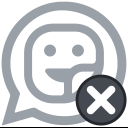
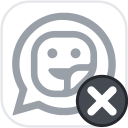
fix: bootstrap open WhatsApp tabs after installation

diff --git a/src/service-worker.js b/src/service-worker.js
@@ -4,6 +4,13 @@
   const ENABLED_KEY = "enabled";
   const CONTROL_EVENT = "wa-sticker-plugin:control:v1";
   const WHATSAPP_ORIGIN = "https://web.whatsapp.com";
+  const WHATSAPP_MATCH = `${WHATSAPP_ORIGIN}/*`;
+  const MAIN_WORLD_FILES = Object.freeze([
+    "src/drop-policy.js",
+    "src/main-world-bridge.js",
+  ]);
+  const ISOLATED_WORLD_FILES = Object.freeze(["src/content-script.js"]);
+  const OVERLAY_FILES = Object.freeze(["src/overlay.css"]);
   const ACTIVE_ICONS = Object.freeze({
     16: chrome.runtime.getURL("icons/active-16.png"),
     32: chrome.runtime.getURL("icons/active-32.png"),
@@ -45,6 +52,43 @@
     }
   }
 
+  async function bootstrapInstalledTab(tab) {
+    if (!isWhatsAppTab(tab) || tab.discarded === true) {
+      return;
+    }
+
+    const target = { tabId: tab.id, frameIds: [0] };
+    try {
+      await chrome.scripting.insertCSS({
+        target,
+        files: OVERLAY_FILES,
+      });
+      await chrome.scripting.executeScript({
+        target,
+        world: "MAIN",
+        files: MAIN_WORLD_FILES,
+      });
+      await chrome.scripting.executeScript({
+        target,
+        world: "ISOLATED",
+        files: ISOLATED_WORLD_FILES,
+      });
+    } catch {
+      // Navigation can replace the document mid-install. Static scripts own the next page load.
+    }
+  }
+
+  async function bootstrapOpenWhatsAppTabs() {
+    let tabs;
+    try {
+      tabs = await chrome.tabs.query({ url: WHATSAPP_MATCH });
+    } catch {
+      return;
+    }
+
+    await Promise.all(tabs.map((tab) => bootstrapInstalledTab(tab)));
+  }
+
   async function synchronizeClickedTab(tab, enabled) {
     if (!isWhatsAppTab(tab)) {
       return;
@@ -64,17 +108,20 @@
         args: [CONTROL_EVENT, enabled],
       });
     } catch {
-      // Storage remains authoritative. A newly installed extension still needs one page reload.
+      // Storage remains authoritative. Static scripts synchronize the next matching page load.
     }
   }
 
-  chrome.runtime.onInstalled.addListener(() => {
+  chrome.runtime.onInstalled.addListener((details) => {
     void (async () => {
       const settings = await chrome.storage.local.get(ENABLED_KEY);
       if (typeof settings[ENABLED_KEY] !== "boolean") {
         await chrome.storage.local.set({ [ENABLED_KEY]: true });
       }
       await synchronizeAction();
+      if (details?.reason === "install") {
+        await bootstrapOpenWhatsAppTabs();
+      }
     })();
   });
 

diff --git a/src/main-world-bridge.js b/src/main-world-bridge.js
@@ -493,6 +493,10 @@
     dragListenersAttached = shouldAttach;
   }
 
+  function requestCurrentControlState() {
+    root.dispatchEvent(new CustomEvent(CONTROL_QUERY_EVENT));
+  }
+
   root.addEventListener(CONTROL_EVENT, (event) => {
     const enabled = event.detail?.enabled === true;
     if (extensionEnabled !== enabled) {
@@ -508,8 +512,14 @@
 
   root.addEventListener("pagehide", () => {
     clearTimeout(leaveTimer);
+    if (extensionEnabled) {
+      controlRevision += 1;
+    }
+    extensionEnabled = false;
+    pendingConversationNavigation = null;
     setDragListenersAttached(false);
     emitStatus("idle");
   });
-  root.dispatchEvent(new CustomEvent(CONTROL_QUERY_EVENT));
+  root.addEventListener("pageshow", requestCurrentControlState);
+  requestCurrentControlState();
 })(globalThis);

diff --git a/STORE_LISTING.md b/STORE_LISTING.md
@@ -1,6 +1,6 @@
 # Chrome Web Store Publication Guide
 
-Use this document to publish version 0.2.4 manually. Upload only the exact ZIP produced by `npm run release:chrome`. Do not upload `dist/`, the repository, a source ZIP from GitHub, or the `.sha256` file.
+Use this document to update the published item to version 0.2.7 manually. Upload only the exact ZIP produced by `npm run release:chrome`. Do not upload `dist/`, the repository, a source ZIP from GitHub, or the `.sha256` file.
 
 ## 1. Prepare the public source and privacy URL
 
@@ -12,7 +12,7 @@ Before opening the Developer Dashboard:
    git status
    git diff --check
    git add .github AGENTS.md PRIVACY.md README.md STORE_LISTING.md icons manifest.json package.json scripts src tests
-   git commit -m "chore: prepare Chrome Web Store release 0.2.4"
+   git commit -m "fix: bootstrap open WhatsApp tabs after installation"
    git push origin main
    ```
 
@@ -30,14 +30,14 @@ Run:
 
 ```powershell
 npm run release:chrome
-Get-FileHash .artifacts\whatsapp-sticker-plugin-0.2.4.zip -Algorithm SHA256
-Get-Content .artifacts\whatsapp-sticker-plugin-0.2.4.zip.sha256
+Get-FileHash .artifacts\whatsapp-sticker-plugin-0.2.7.zip -Algorithm SHA256
+Get-Content .artifacts\whatsapp-sticker-plugin-0.2.7.zip.sha256
 ```
 
 The two SHA-256 values must match. Keep both files unchanged after verification. Upload this file:
 
 ```text
-.artifacts/whatsapp-sticker-plugin-0.2.4.zip
+.artifacts/whatsapp-sticker-plugin-0.2.7.zip
 ```
 
 The passing GitHub workflow also uploads the inner ZIP and `.sha256` file as one workflow artifact. If you download that artifact, extract its outer wrapper, compare the inner ZIP checksum to your local value, and upload the inner extension ZIP—not the GitHub artifact wrapper.
@@ -55,13 +55,13 @@ In the [Chrome Developer Dashboard](https://chrome.google.com/webstore/devconsol
 
 Do not claim that Google, Chrome, WhatsApp, or Meta has certified or endorsed the extension.
 
-## 4. Create the item and upload the ZIP
+## 4. Update the existing item and upload the ZIP
 
-1. Return to **Items**.
-2. Click **Add new item**.
-3. Choose `.artifacts/whatsapp-sticker-plugin-0.2.4.zip`.
-4. Click **Upload**.
-5. In **Package**, confirm the parsed version is `0.2.4` and there are no manifest warnings.
+1. Open the existing **Drop as Sticker for WhatsApp Web** item.
+2. Open **Package**.
+3. Click **Upload new package** and choose `.artifacts/whatsapp-sticker-plugin-0.2.7.zip`.
+4. Complete the dashboard's pre-submission installation checks.
+5. Confirm the parsed version is `0.2.7` and there are no manifest warnings.
 6. If the dashboard rejects the package, fix the source, increment the manifest version, rebuild, and upload the new version. Never alter the verified ZIP manually.
 
 ## 5. Complete Store Listing
@@ -134,22 +134,16 @@ Route one image deliberately dropped by the user into WhatsApp Web's existing st
 Stores only one local boolean named enabled so the user's toolbar on/off choice persists. It is not synchronized to an extension-owned server.
 ```
 
-**Permission justification: activeTab**
-
-```text
-Temporarily accesses only the current tab after the user clicks the extension toolbar icon, so the enabled state can be synchronized immediately with that WhatsApp Web tab after an extension reload or update.
-```
-
 **Permission justification: scripting**
 
 ```text
-Injects a packaged, fixed boolean-state relay into the user-clicked WhatsApp Web tab. It does not inject arbitrary code, download code, or read messages, contacts, cookies, or authentication storage.
+Injects only the packaged extension runtime into an already-open WhatsApp Web tab after a fresh installation and a fixed boolean-state relay after a toolbar click. It does not inject arbitrary code, download code, or read messages, contacts, cookies, or authentication storage.
 ```
 
-**Website/content-script access justification**
+**Host permission and website/content-script access justification**
 
 ```text
-Runs only on https://web.whatsapp.com/* to detect the user's image drop and route that image into WhatsApp Web's existing sticker editor. The extension does not run on other sites.
+Runs only on https://web.whatsapp.com/* to detect the user's image drop, route that image into WhatsApp Web's existing sticker editor, and initialize an already-open WhatsApp Web tab immediately after a fresh installation. The extension does not run on or request access to other sites.
 ```
 
 **Remote code**
@@ -199,7 +193,7 @@ No extension account or credentials are required. The reviewer may use their own
 ```text
 1. Open https://web.whatsapp.com/ and sign in using your own test account.
 2. Open a self/test chat in which messages can be sent.
-3. Drag one PNG, JPEG, or WebP file over the active conversation. Confirm the extension's green drop affordance appears.
+3. If WhatsApp Web was already open when the extension was installed, do not refresh it. Drag one PNG, JPEG, or WebP file over the active conversation and confirm the extension's green drop affordance appears immediately.
 4. Drop the file. Confirm WhatsApp's native sticker editor opens. Sending is not required; close the editor without sending.
 5. Click the extension toolbar icon. Confirm the icon changes to the gray inactive version with an X.
 6. Drag another image. Confirm the extension does not intercept it and WhatsApp's normal media flow remains available. Close the preview without sending.
@@ -225,7 +219,7 @@ All visibility types undergo policy review. The private-first route adds a revie
 
 Before clicking **Submit for review**, confirm:
 
-- Package shows version `0.2.4`.
+- Package shows version `0.2.7`.
 - The public privacy-policy URL works in a signed-out window.
 - Store copy and privacy answers match.
 - Screenshot and promo tile contain no private data or misleading affiliation.

diff --git a/AGENTS.md b/AGENTS.md
@@ -8,7 +8,8 @@
 
 ## Current Status
 
-- Version 0.2.5 fixes stale sticker-input routing while WhatsApp switches conversations.
+- Version 0.2.7 initializes already-open WhatsApp Web tabs immediately after a fresh installation; version 0.2.6 restored interception after page lifecycle resume.
+- Active and inactive icons now use the supplied mark on a clean rounded white tile; store graphics use matching light-theme assets.
 - Automated policy, build, packaging, fixture, and extension-world checks are available.
 - Live Brave inspection confirmed that WhatsApp's hidden image picker opens the sticker editor when its change handler receives a `File`.
 - The confirmed internal call uses `stickerMaker: true` and `sendAsSticker: true`.
@@ -31,7 +32,7 @@
 - Restrict execution to `https://web.whatsapp.com/*` and the top frame.
 - Start capture listeners at `document_start` so they run before WhatsApp's body-level React handlers.
 - Keep overlay/status UI isolated; keep capture, normalization, and hidden-input routing in one minimal MAIN-world bridge.
-- Keep toolbar injection limited to the user-clicked WhatsApp tab via `activeTab` and `scripting`; store only the boolean `storage.local` preference.
+- Keep host access limited to `https://web.whatsapp.com/*`; use it only for static content scripts, fresh-install bootstrap, and toolbar synchronization, and store only the boolean `storage.local` preference.
 - Prefer the native hidden `input[type="file"][accept="image/*"]` sticker path over patching WhatsApp commands.
 - Use WhatsApp's existing dropped-image normalizer for URL/HTML image drags only when it preserves fail-open behavior.
 - Avoid broad host permissions, remote services, runtime-downloaded code, and unnecessary dependencies.
@@ -86,7 +87,7 @@ scripts/
 
 ## Release Rules
 
-- Use semantic versions; version 0.2.5 is the current local public-release candidate.
+- Use semantic versions; version 0.2.7 is the current local public-release candidate.
 - Release the same tested artifact; do not rebuild a different archive for publishing.
 - Do not publish to the Chrome Web Store, push to a remote, or create a release without explicit approval.
 - Document that the extension is unofficial, user-triggered, and not affiliated with WhatsApp or Meta.

diff --git a/PRIVACY.md b/PRIVACY.md
@@ -20,9 +20,9 @@ Any user data handled by the extension is used only to provide its disclosed sin
 
 ## Permissions
 
-- Site access is limited to `https://web.whatsapp.com/*` so the drop interaction can run in WhatsApp Web.
+- Site access is limited to `https://web.whatsapp.com/*` so the drop interaction can run in WhatsApp Web and an already-open WhatsApp Web tab can initialize immediately after installation.
 - The `storage` permission is used only for the local on/off preference described above.
-- The `activeTab` and `scripting` permissions are used only after a toolbar click to synchronize that preference with the clicked WhatsApp Web tab, including after an extension update.
+- The `scripting` permission is used only to inject the extension's packaged files into an already-open WhatsApp Web tab after a fresh installation and to synchronize the preference after a toolbar click. It is not used to download or execute remote code.
 
 ## Changes and contact
 
